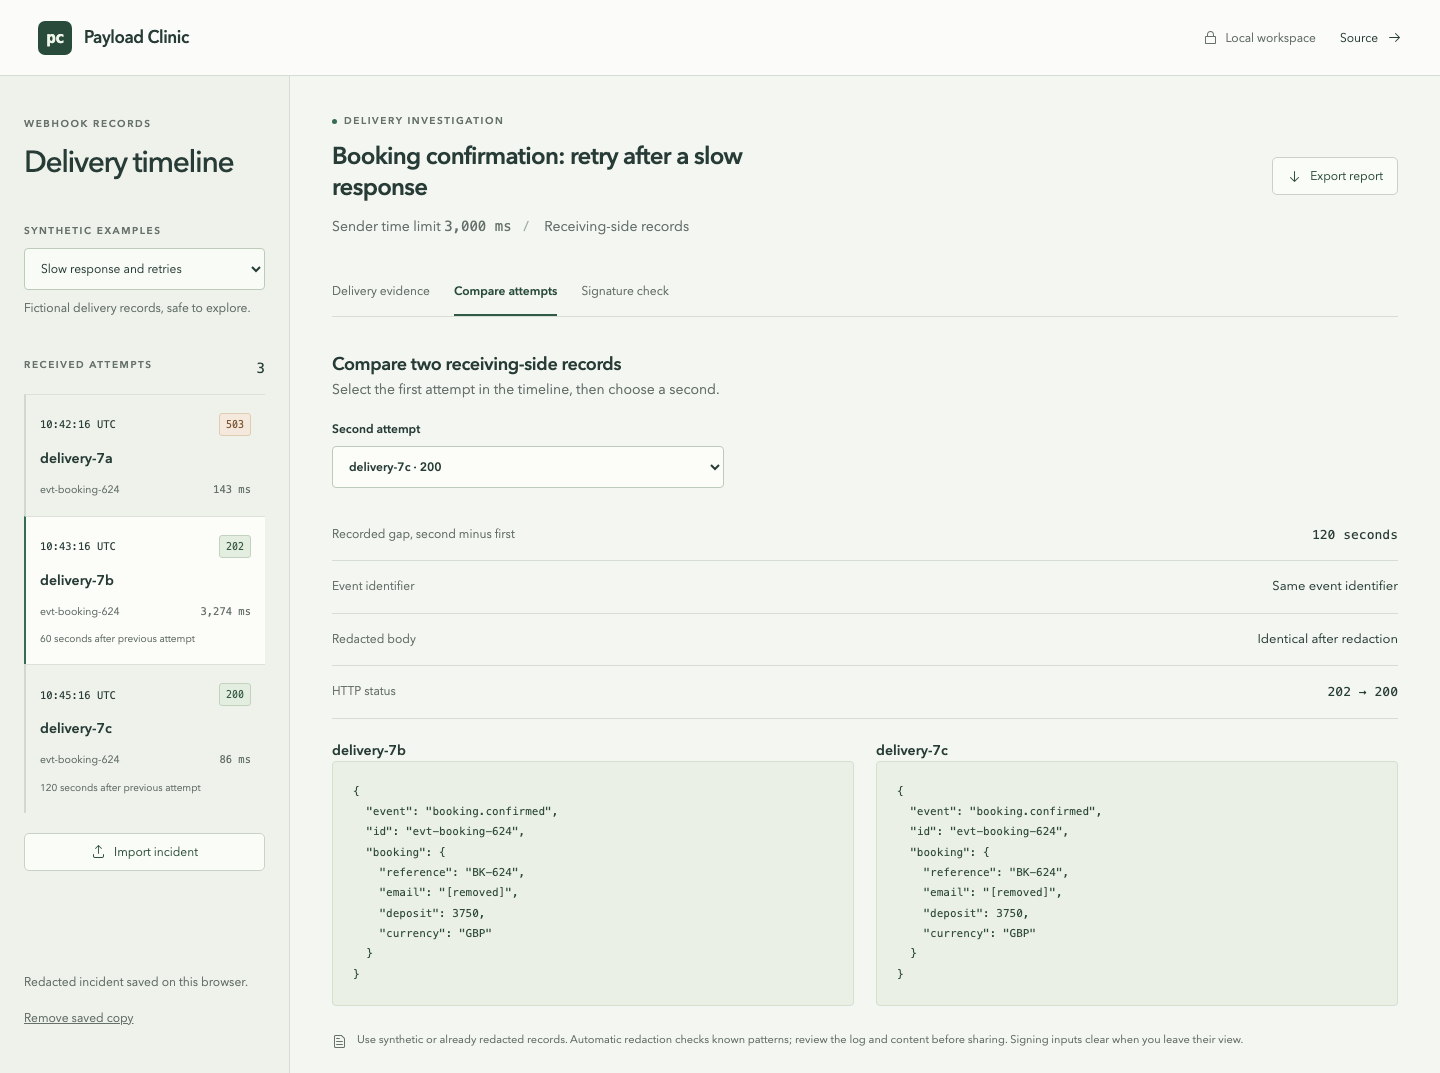
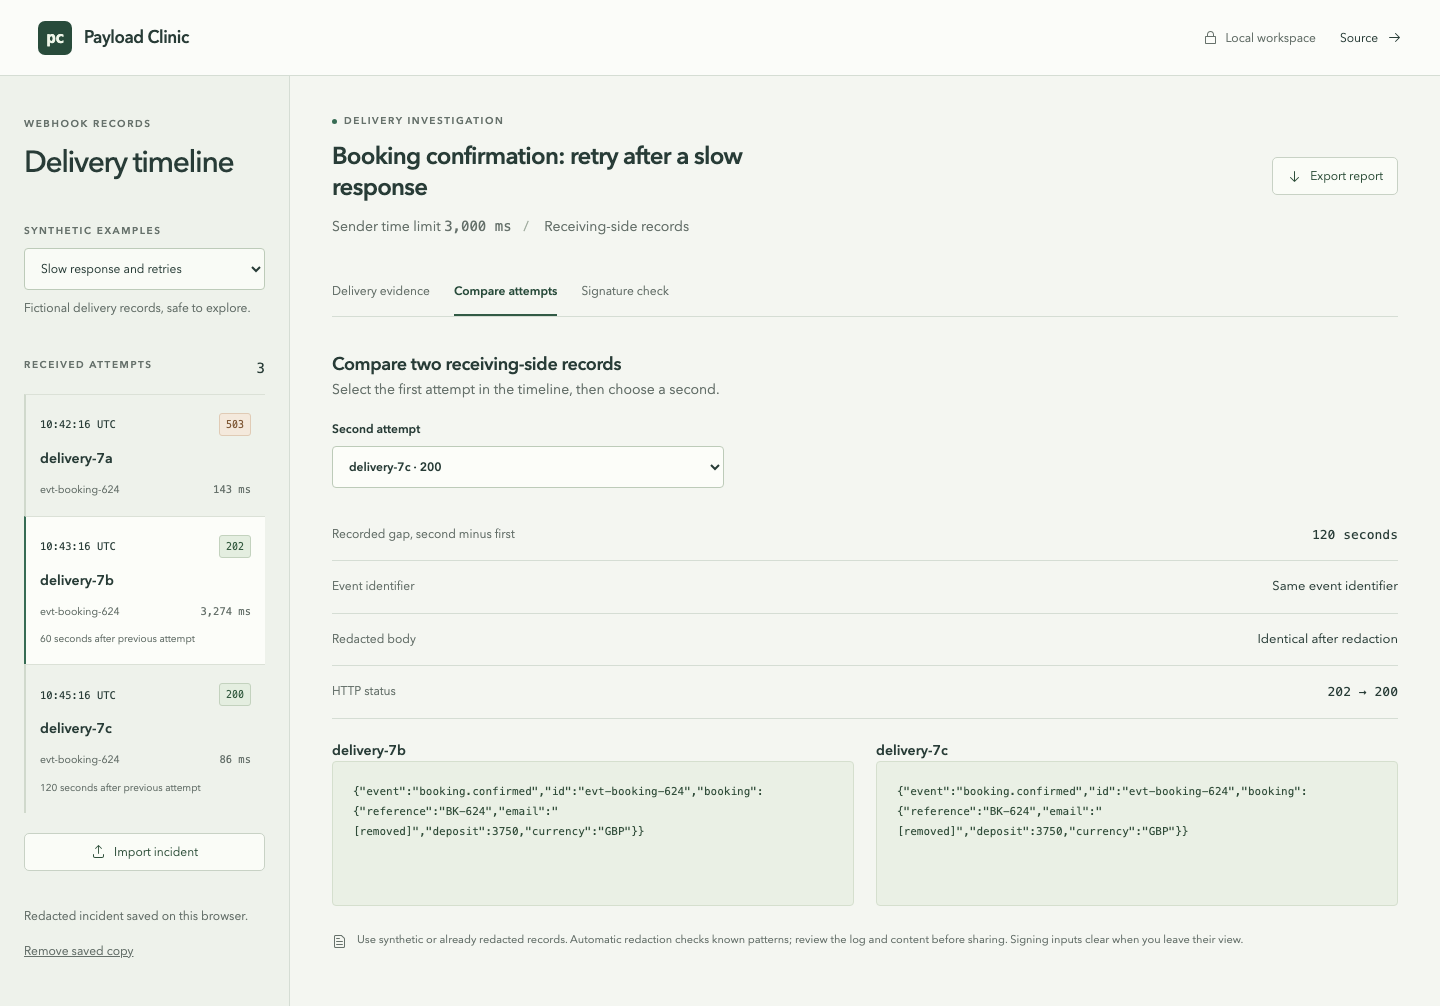
Document preserved payload evidence and verified workspace views

diff --git a/README.md b/README.md
@@ -37,7 +37,7 @@ Use synthetic or already redacted records and inspect the result before sharing 
 
 Sensitive JSON fields and headers are removed when their names contain authorization, cookie, signature, token, secret, password, API key or email. The same name checks apply to form-encoded bodies in `key=value&key=value` format. Text checks cover email addresses, long Bearer tokens containing credential punctuation or digits, valid long Basic base64 credentials containing a decoded colon, JWT-shaped strings, Stripe `sk_`, `pk_` and `rk_` live/test keys, and `whsec_` signing secrets. Bare Bearer/Basic credentials and Stripe v1 digests are also collected from headers for repeated-value checks.
 
-Repeated matching applies to unbroken values of at least 12 characters containing a number or credential punctuation, including long hexadecimal digests. It respects token boundaries and leaves ordinary field names intact. Email and credential patterns are still removed from field names. Invalid JSON bodies are retained as redacted text; recognised form bodies are encoded again after redaction. Unknown incident properties are discarded.
+Repeated matching applies to unbroken values of at least 12 characters containing a number or credential punctuation, including long hexadecimal digests. It respects token boundaries and leaves ordinary field names intact. Email and credential patterns are still removed from field names. JSON bodies retain their original number tokens and formatting outside redacted strings and values. Large numeric identifiers, decimal spelling and exponent notation therefore remain available as recorded evidence. Invalid JSON bodies are retained as redacted text; recognised form bodies are encoded again after redaction. Unknown incident properties are discarded.
 
 These checks cover particular patterns. Names, addresses, encoded values, unfamiliar credential formats and private business details can remain. The redaction log records recognised removals and is preserved when reopening a saved incident.
 
@@ -92,9 +92,9 @@ For Linux environments without browser system libraries, use `npx playwright ins
 
 ## Verification
 
-The test suite covers chronological ordering, status interpretation, sender time limits, invalid JSON, malformed import structures, duplicate identifiers, redaction across bodies and nested object keys, repeated secrets and report content. Cryptographic tests include RFC 4231 test case 1 and the supplied Stripe signing format, with changed bytes, missing or malformed signatures and expired timestamps.
+The test suite covers chronological ordering, status interpretation, sender time limits, invalid JSON, malformed import structures, duplicate identifiers, redaction across bodies and nested object keys, repeated secrets, ordinary authentication error messages, lossless numeric JSON bodies and report content. A near-limit encoded-body test checks import and reopen time against a 1.5 second budget. Cryptographic tests include RFC 4231 test case 1 and the supplied Stripe signing format, with changed bytes, missing or malformed signatures and expired timestamps.
 
-Browser tests exercise a complete investigation and export, invalid and valid imports, redacted persistence and the full redaction log across reload, transient signing inputs, an expired timestamp, a 390 px layout, and keyboard focus containment and restoration. CI installs dependencies, runs the unit tests, builds the app and runs Chromium tests. Publishing depends on that verification job succeeding for the same commit.
+Browser tests exercise a complete investigation and export, invalid and valid imports, redacted persistence and the full redaction log across reload, transient signing inputs, an expired timestamp, a 390 px layout, and keyboard focus containment and restoration. CI installs dependencies, runs the unit tests, builds the app and runs Chromium tests. Publishing depends on that verification job succeeding for the same commit. Deployment jobs queue per branch so that separate commits do not try to deploy to GitHub Pages simultaneously.
 
 Screenshots show the application running with synthetic records at 1440 px. Run `CAPTURE_DOCS=1 npm run test:browser -- --grep "capture the three"` to refresh them in `docs/screenshots/`.
 
